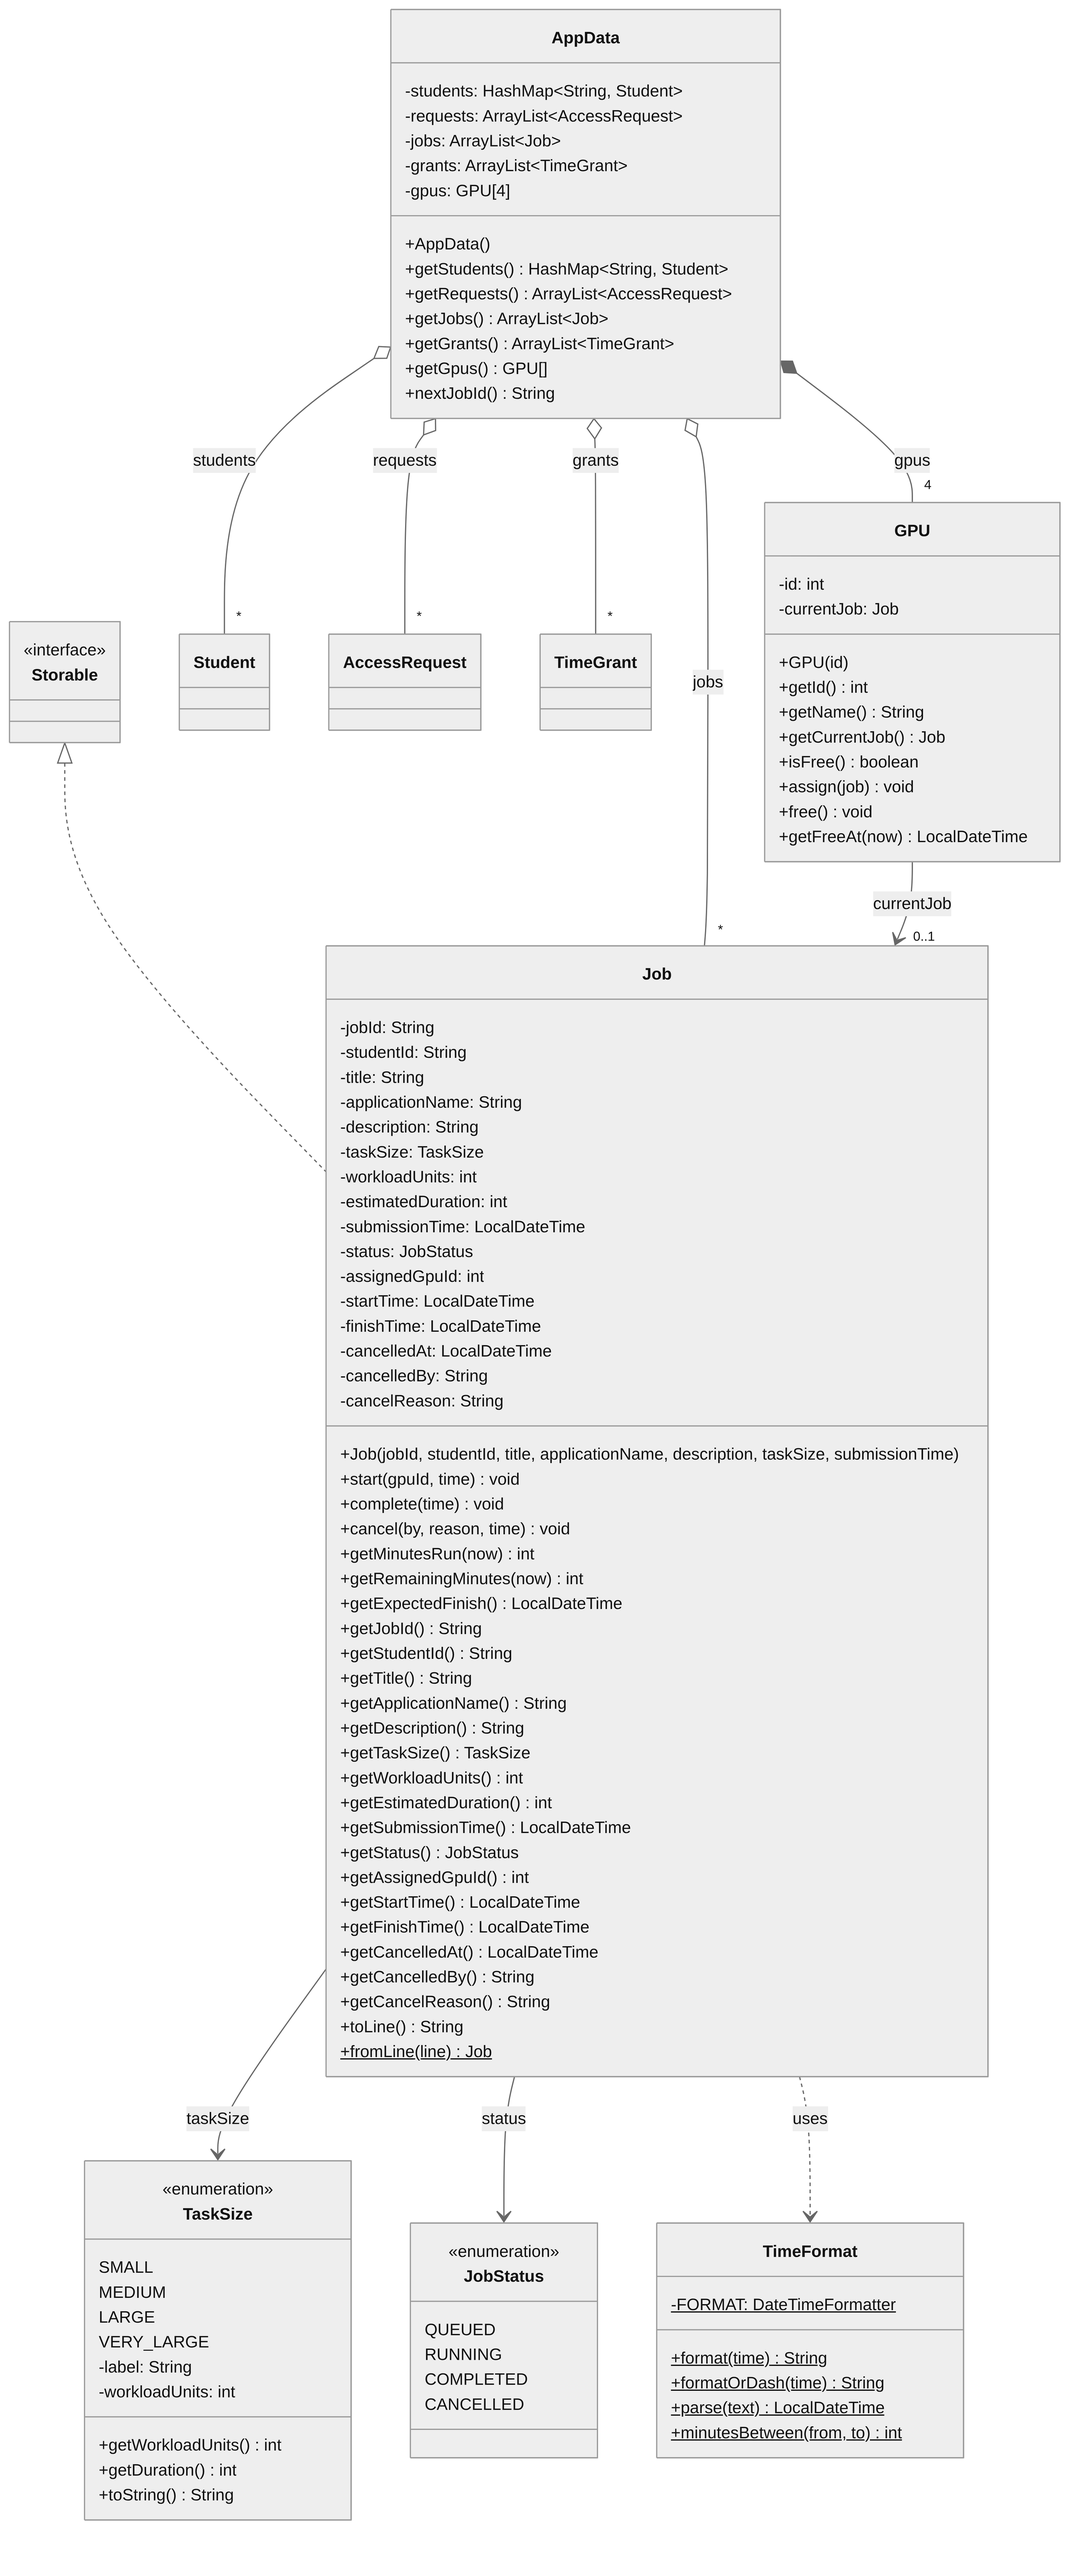
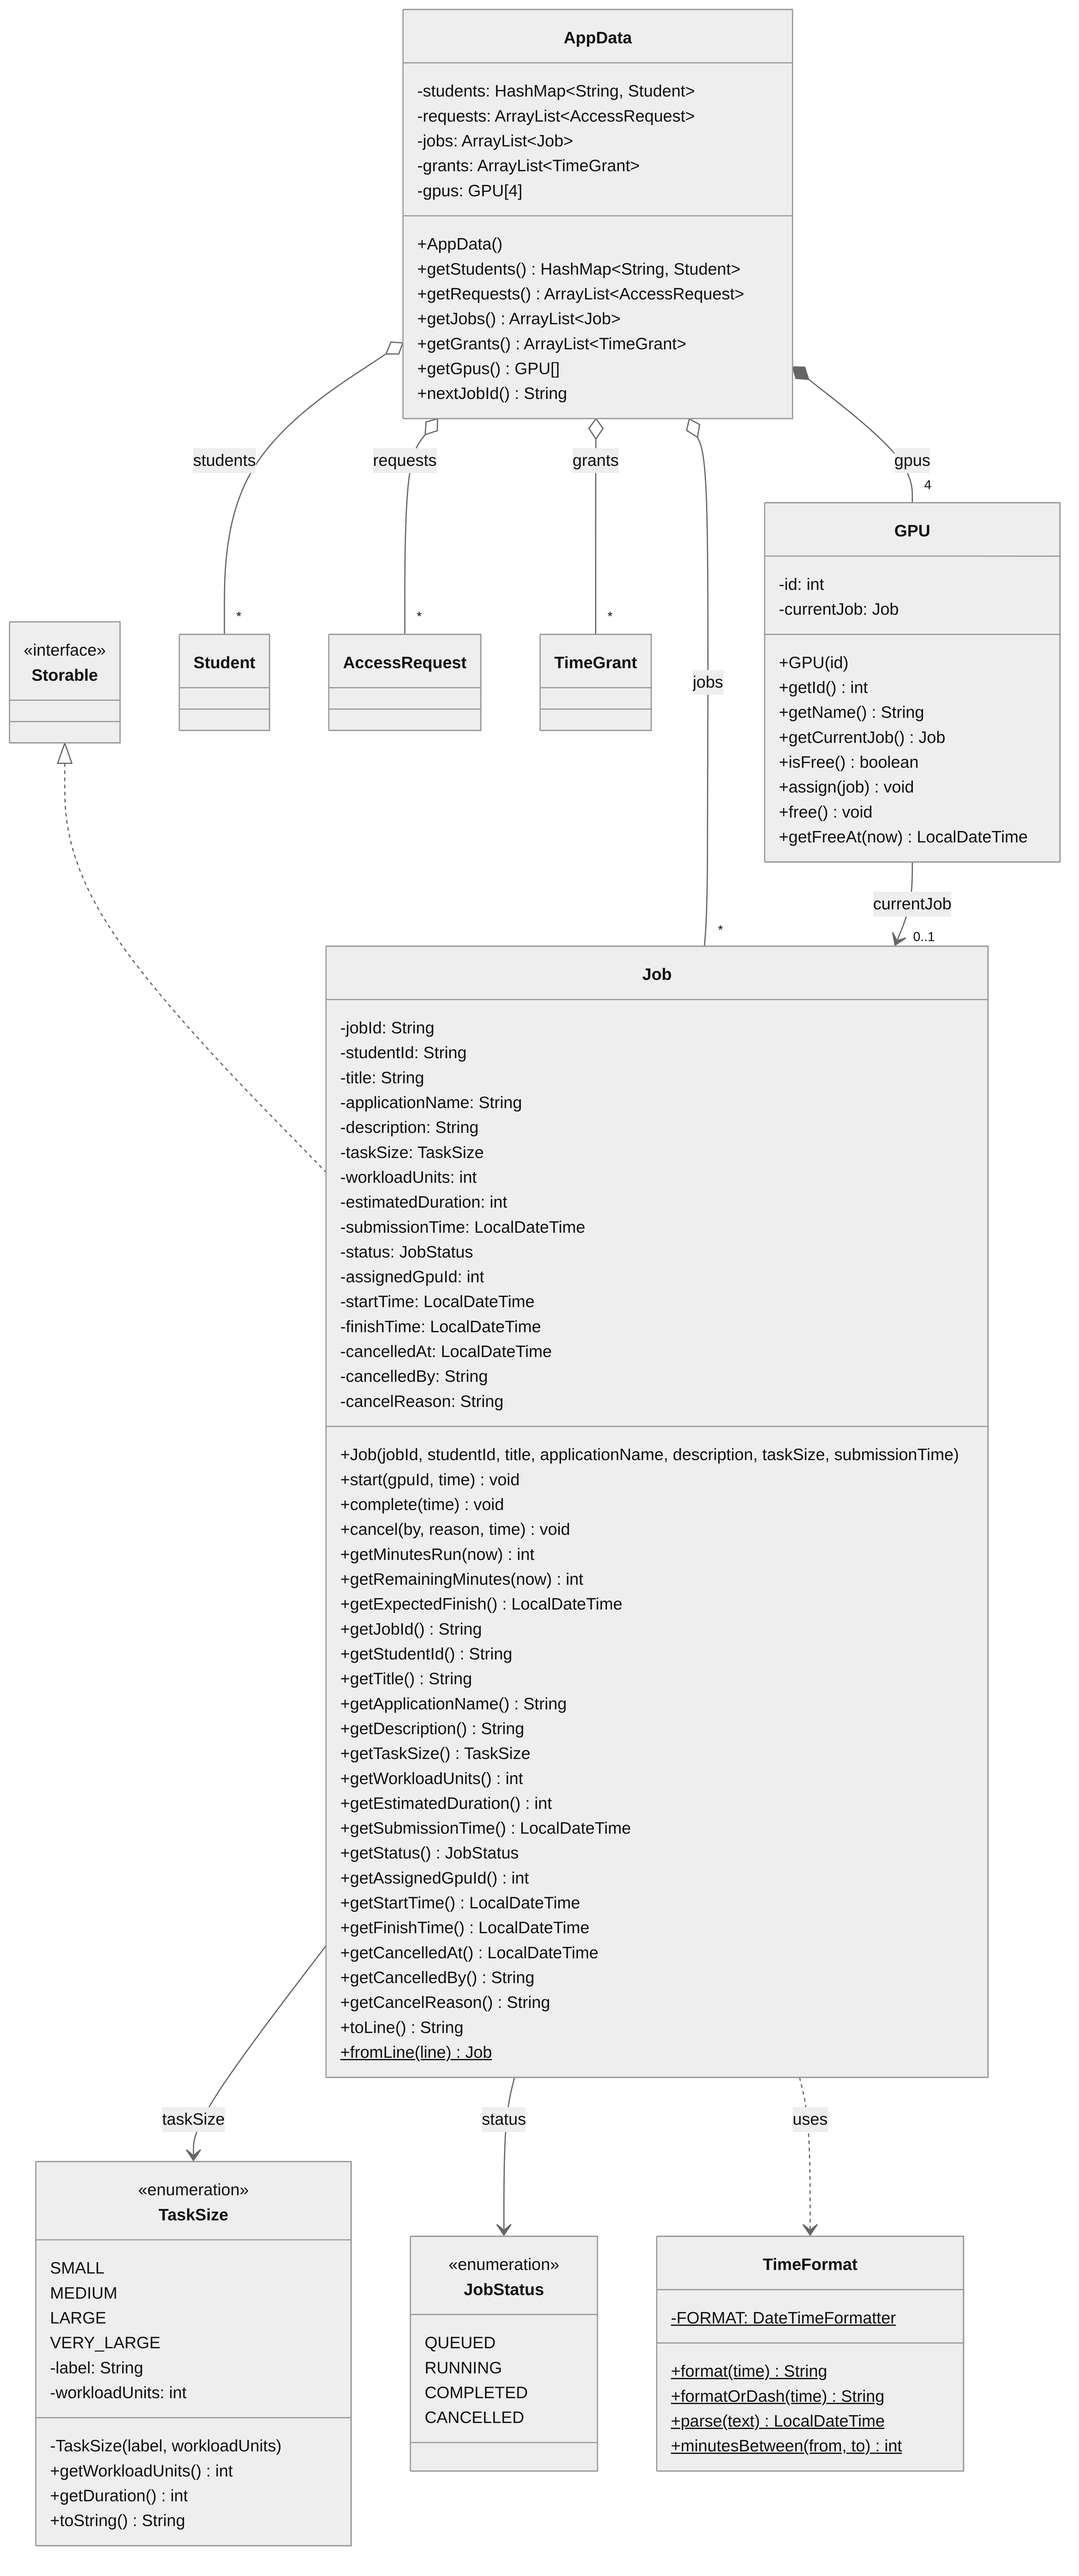
readme: tests package, ActionListener, diagram fix, commit count

diff --git a/README.md b/README.md
@@ -2,7 +2,7 @@
 
 COSC 230 Object-Oriented Programming lab project, Fall 2026, Khalifa University.
 
-A Java Swing desktop app that shares four NVIDIA H100 GPUs between students. Students ask for an account, the administrator approves them and gives them GPU minutes, and students submit jobs that run on the GPUs one after another. Nothing really runs on a GPU: the GPUs and the clock are simulated, and time only moves when the administrator presses **+1 minute**.
+A Java Swing desktop app that shares four NVIDIA H100 GPUs between students. Students ask for an account, the administrator approves them and gives them GPU minutes, and students submit jobs that run on the GPUs one after another. The GPUs and the clock are simulated, and time only moves when the administrator presses **+1 minute**.
 
 | Member | Student ID | GitHub | Part |
 |---|---|---|---|
@@ -116,7 +116,7 @@ clock.csv     2026,11,16,10,20,20
 
 ## Class diagrams
 
-The code is in four packages. Only `ui` uses Swing; `logic` and `model` never import it. The windows read their fields and call methods in `logic`, which apply the rules.
+The app is in four packages. Only `ui` uses Swing; `logic` and `model` never import it. The windows read their fields and call methods in `logic`, which apply the rules. A fifth package, `tests`, holds the test programs; the app never uses it.
 
 | Package | Classes |
 |---|---|
@@ -124,6 +124,7 @@ The code is in four packages. Only `ui` uses Swing; `logic` and `model` never im
 | `logic` | `AccountService`, `Scheduler`, `SimulationClock`, `ValidationException` |
 | `storage` | `DataStore` |
 | `ui` | `Main`, `LoginFrame`, `StudentRegistrationFrame`, `StudentFrame`, `MyJobsPanel`, `AdminFrame`, `DashboardPanel`, `RequestsPanel`, `StudentsPanel`, `AllJobsPanel`, `ClockSetupPanel` |
+| `tests` | `ModelStorageTest`, `ScenarioTest`, `DemoDataGenerator` |
 
 ### How the packages connect
 
@@ -167,7 +168,7 @@ A `Job` checks its own moves: only Queued → Running or Cancelled, and Running 
 |---|---|
 | Encapsulation | `TimeAllowance` keeps allocated, used and reserved private; only its methods change them. `User` keeps the password private and only offers `checkPassword()`. |
 | Inheritance | `Student` and `Administrator` extend the abstract `User`. The windows extend `JFrame` or `JPanel`; `ValidationException` extends `Exception`. |
-| Interfaces | `Student`, `AccessRequest`, `Job` and `TimeGrant` implement `Storable` (`toLine()`). |
+| Interfaces | `Student`, `AccessRequest`, `Job` and `TimeGrant` implement `Storable` (`toLine()`). `LoginFrame`, `StudentRegistrationFrame`, `StudentFrame` and `MyJobsPanel` implement `ActionListener` for their buttons. |
 | Polymorphism | `login()` returns a `User`, and `LoginFrame` calls `user.isAdmin()`, which runs the `Student` or `Administrator` version. `DataStore` calls `toLine()` on a list of `Storable`, whatever class each item is. |
 | Collections | `HashMap` of students, `ArrayList`s of requests, jobs and grants, `GPU[4]`, the queue as a `List<Job>`, predictions in a `Map<Job, LocalDateTime>`. |
 
@@ -221,7 +222,7 @@ Everything is in one repository on the `main` branch, and each member committed 
 
 | Member | Commits | Main work |
 |---|---|---|
-| Simreen | 63 | project setup, model classes, `AccountService`, `DataStore`, `Main`, tests, diagrams, clean-up, student window tabs |
+| Simreen | 64 | project setup, model classes, `AccountService`, `DataStore`, `Main`, tests, diagrams, clean-up, student window tabs |
 | Mariam | 16 | `SimulationClock`, `Scheduler`, moving it onto the shared `AppData` |
 | Alyazeya | 21 | login, registration, student window, job form, My Jobs, connecting them to the services |
 | Maryam | 9 | admin window and all tabs, clock setup, demo data |
@@ -235,7 +236,7 @@ Everything is in one repository on the `main` branch, and each member committed 
 - One fixed admin account and one user at a time on one computer, as the task describes.
 - Student windows refresh when they come to the front or when *Refresh* is pressed, not on a timer.
 - Some table columns cut off long values unless the window is made wider.
-- Time moves in whole minutes and only the four task sizes exist. No real GPU work happens.
+- Time moves in whole minutes and only the four task sizes exist.
 
 ## Repository layout
 
